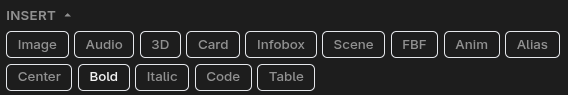
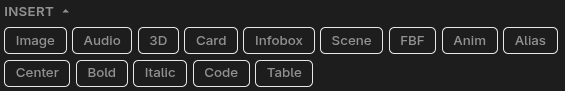
Update README

Changed region(s): [[0.0, 0.2857, 0.9929, 0.6154], [0.0, 0.6593, 0.5717, 0.967], [0.0, 0.0659, 0.1504, 0.2198]]

diff --git a/src/client/app/wikiHighlight.ts b/src/client/app/wikiHighlight.ts
@@ -64,8 +64,7 @@ function span(color: string, text: string, extra = ""): string {
 // or `00dfc02ea4ecdd77[bust].png` aren't truncated at the first `)` / `]`. The
 // chars consumed here are already HTML-escaped, so `&` shows up as `&amp;` and
 // is matched as part of the normal run.
-const ECHO_URL_RE =
-  /echo:\/\/(?:[^\s()[\]"']|\([^\s()[\]"']*\)|\[[^[\]]*\])+/g;
+const ECHO_URL_RE = /echo:\/\/(?:[^\s()[\]"']|\([^\s()[\]"']*\)|\[[^[\]]*\])+/g;
 
 /**
  * Highlight a single (HTML-escaped) `echo://` URL: the base link in the echo

diff --git a/README.md b/README.md
@@ -13,9 +13,9 @@ EchoWiki turns a subreddit wiki into a proper editing and reading environment. M
   - [Remote Images](#remote-images)
 - [Collaborative Editing](#collaborative-editing)
   - [Suggestions](#suggestions)
-  - [Voting](#voting)
+  - [Community Voting](#community-voting)
   - [Moderator Review](#moderator-review)
-  - [Contribution History](#contribution-history)
+  - [User Contributions](#user-contributions)
   - [Flair Rewards](#flair-rewards)
 - [Echo Links](#echo-links)
   - [Asset Editions](#asset-editions)
@@ -32,7 +32,7 @@ EchoWiki turns a subreddit wiki into a proper editing and reading environment. M
   - [Theme](#theme)
   - [Mapping](#mapping)
   - [Collaborative](#collaborative)
-  - [Voting](#voting-1)
+  - [Voting](#voting)
 - [A Note to Game Developers](#a-note-to-game-developers)
 - [Privacy](#privacy)
 
@@ -138,7 +138,7 @@ Submitting requires a description of what changed (at least 10 characters). The 
 
 A user can update their pending suggestion from the Contributions tab. Each update resets any votes already cast on the suggestion. The maximum number of updates and the minimum time between updates are both configurable in the settings.
 
-### Voting
+### Community Voting
 
 ![Vote](https://raw.githubusercontent.com/Kidev/EchoWiki/main/docs/voting.gif)
 
@@ -154,45 +154,45 @@ A minimum number of voters can be required before the time-based threshold appli
 
 ![Vote](https://raw.githubusercontent.com/Kidev/EchoWiki/main/docs/comment.png)
 
-The voting post includes a pinned bot comment that records vote events: when the vote opened, when the suggestion was updated, and when the vote concluded with the outcome and reason. The comment is updated as events occur, and the post is locked once the vote concludes (or, if **Delete completed vote posts** is enabled in the [Voting settings](#voting-1), deleted from the subreddit instead). Either way the suggestion's content and the decision are preserved in the [contribution history](#contribution-history), so a concluded vote stays reviewable even after its post is gone.
+The voting post includes a pinned bot comment that records vote events: when the vote opened, when the suggestion was updated, and when the vote concluded with the outcome and reason. The comment is updated as events occur, and the post is locked once the vote concludes (or, if **Delete completed vote posts** is enabled in the [Voting settings](#voting), deleted from the subreddit instead). Either way the suggestion's content and the decision are preserved in the [user contributions](#user-contributions) history, so a concluded vote stays reviewable even after its post is gone.
 
 Voting posts are public, so a voter who has not imported the game can still review the change: the import prompt on a voting post offers a **Continue without assets** option. Choosing it opens the suggestion with its text and Diff fully readable, while `echo://` references render as inert placeholders rather than resolved assets. The choice is session-only and is never persisted, so each visit opts in again.
 
+Suggestions are tracked from a **Contributions** tab with two sub-tabs, **Pending** and **History**. Both moderators and eligible contributors get the tab; what each sees in it differs by role, described below.
+
 ### Moderator Review
 
-![Suggestions moderator](https://raw.githubusercontent.com/Kidev/EchoWiki/main/docs/moderator-review.gif)
+![Moderator review](https://raw.githubusercontent.com/Kidev/EchoWiki/main/docs/moderator-review.gif)
 
-Moderators with "wiki" or "config" permissions see a **Contributions** tab. Its **Pending** sub-tab lists all pending suggestions, each with the contributor, target page, description, and vote status if voting is enabled. Clicking Review opens a full-screen modal comparing the current page (left) and the suggestion (right), switchable between Normal, Source, and Diff views.
+Moderators with "wiki" or "config" permissions see every contribution across the subreddit.
 
-![Suggestions moderator](https://raw.githubusercontent.com/Kidev/EchoWiki/main/docs/pending-contributions.png)
+The **Pending** sub-tab lists all pending suggestions, each with the contributor, target page, description, and vote status if voting is enabled. Clicking Review opens a full-screen modal comparing the current page (left) and the suggestion (right), switchable between Normal, Source, and Diff views. Moderators can Accept or Deny from the review modal, or Deny a suggestion straight from the list, at any time and regardless of the vote result. When a voting post exists, a link to it is shown. Accepting writes the suggested content to the Reddit wiki with the contributor's username in the revision reason.
 
-Moderators can Accept or Deny from the review modal, or Deny a suggestion straight from the list, at any time and regardless of the vote result. When a voting post exists, a link to it is shown. Accepting writes the suggested content to the Reddit wiki with the contributor's username in the revision reason.
+![Pending contributions, moderator side](https://raw.githubusercontent.com/Kidev/EchoWiki/main/docs/pending-contributions.png)
 
-Contributors also see the Contributions tab's Pending sub-tab, where they can edit their own pending suggestion's content and description. A suggestion can be withdrawn entirely from the suggest dialog (which offers to delete the current one when you start another).
+The **History** sub-tab is an audit trail of every decided suggestion in full detail: who submitted it, who decided it (including which moderator approved or denied each one, and which were settled by community vote), and any later moderator actions. Each entry's **Changes** button opens a side-by-side diff of what the contribution proposed against the page as it stood when the decision was made; because that content is stored with the entry itself, it stays viewable even after the original vote post has been deleted (see [Delete completed vote posts](#voting)). The history is the durable record of what each contribution changed.
 
-### Contribution History
+![Contribution history, moderator side](https://raw.githubusercontent.com/Kidev/EchoWiki/main/docs/history-contributions.png)
 
-The Contributions tab's **History** sub-tab is an audit trail of decided suggestions. Every decision (accepted or denied, whether by a moderator or by a community vote) is recorded with its full state log: who submitted it, who decided it, and any later moderator actions.
-
-Visibility depends on the role:
-
-- **Contributors** see only their own decided suggestions, and only _that_ a moderator acted, not which one (moderator identities are redacted).
-
-  ![History contributions](https://raw.githubusercontent.com/Kidev/EchoWiki/main/docs/contributions-history-user.png)
-
-- **Moderators** see every decision in full detail, including which moderator approved or denied each one and which were decided by community vote.
-
-  ![History contributions](https://raw.githubusercontent.com/Kidev/EchoWiki/main/docs/history-contributions.png)
-
-Every entry has a **Changes** button that opens a side-by-side diff of what the contribution proposed, against the page as it stood when the decision was made. Because this content is stored with the history entry itself, it stays viewable even when the original vote post has been deleted (see [Delete completed vote posts](#voting-1)): the history is the durable record of what each contribution changed. Contributors can review their own contributions this way; moderators can review any.
-
-Moderators can act on a past decision from the History list, without erasing it: the entry stays and instead moves to the top, logging each new state (e.g. "denied by X", then "approved post-mortem by Y"):
+Moderators can act on a past decision from the History list without erasing it: the entry stays and moves to the top, logging each new state (e.g. "denied by X", then "approved post-mortem by Y"):
 
 - **Approve** a previously denied suggestion (post-mortem), applying it to the page now.
 - **Revert** a previously approved suggestion, restoring the page to its pre-suggestion state.
 - **Restart vote** to re-open a decided suggestion as a fresh pending submission.
 
 Because the page may have changed since the original decision, the Approve and Revert actions perform a **Git-style three-way auto-merge** of the change against the live page. A clean merge is applied silently; if it conflicts, EchoWiki warns first and, on confirmation, applies the merged content with standard conflict markers (`<<<<<<<`) for the moderator to resolve by editing the page. The list shows the ten most recent entries.
+
+### User Contributions
+
+Eligible contributors see the same **Contributions** tab from their own side, with the same **Pending** and **History** sub-tabs scoped to their own work.
+
+The **Pending** sub-tab shows the contributor's active suggestion with its target page, submission date, description, and, when voting is enabled, the live vote tally and a link to the vote post. From there they can **Edit** its content and description; each update resets any votes already cast and is subject to the configured [update limit and cooldown](#voting). A suggestion can be withdrawn entirely from the suggest dialog, which offers to delete the current one when you start another.
+
+![Pending contributions, user side](https://raw.githubusercontent.com/Kidev/EchoWiki/main/docs/pending-contributions-user.png)
+
+The **History** sub-tab lists the contributor's own decided suggestions. They see only _that_ a moderator acted, not which one (moderator identities are redacted), and each entry's **Changes** button opens the same diff of what they proposed against the page at decision time, so they can always review what their contribution changed.
+
+![Contribution history, user side](https://raw.githubusercontent.com/Kidev/EchoWiki/main/docs/contributions-history-user.png)
 
 ### Flair Rewards
 
@@ -638,7 +638,7 @@ Voting builds on collaborative mode, which it requires, engaging your community 
 - **Time-based threshold**: Percentage of accept votes required to pass when the deadline is reached. 0 means a simple majority wins.
 - **Allow vote changes**: Whether voters can change their vote after casting, with an optional cooldown between changes.
 - **Show voter names**: Whether voter names are visible to other users. Moderators and the suggestion author always see names.
-- **Delete completed vote posts**: When enabled, a vote post is deleted from the subreddit once its vote concludes, instead of being locked and left up. This only removes the Reddit post; the decision and its content remain in the [contribution history](#contribution-history), where they stay viewable.
+- **Delete completed vote posts**: When enabled, a vote post is deleted from the subreddit once its vote concludes, instead of being locked and left up. This only removes the Reddit post; the decision and its content remain in the [user contributions](#user-contributions) history, where they stay viewable.
 - **Max suggestion updates**: Maximum number of times a pending suggestion can be updated (0 for unlimited).
 - **Voter eligibility**: Minimum karma and account age required to vote (separate from contributor eligibility).
 - **Voting post flair**: Flair template applied to voting posts on creation.
